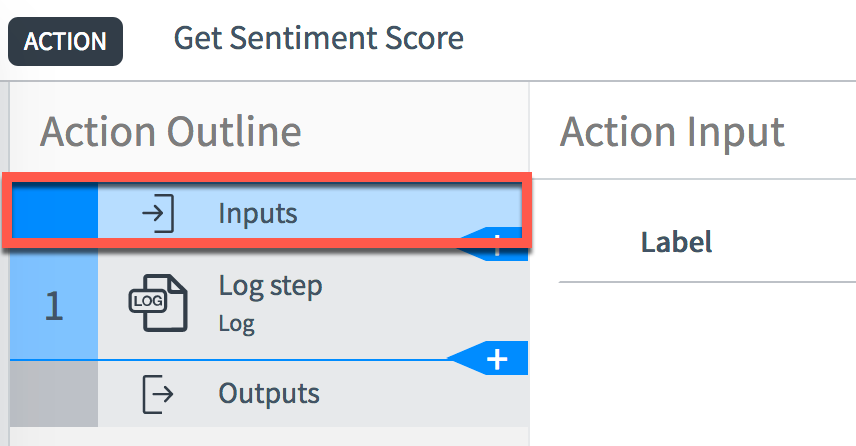
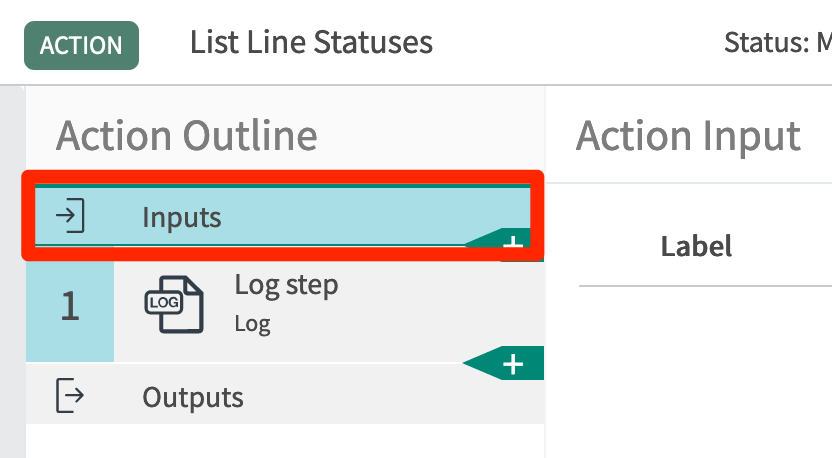
Finished the inputs section

diff --git a/guidebook.md b/guidebook.md
@@ -161,28 +161,30 @@ Now it’s time to add your action to the test flow.
 
 # Define Action Inputs
 
-Action Inputs allow you (and users of Flow Designer) to pass data into your actions. You can think of inputs as method parameters. This section will walk you through the process of creating Action Inputs for the **Get Sentiment Score** action.
+Action Inputs allow you (and users of Flow Designer) to pass data into your actions. You can think of inputs as method parameters. This section will walk you through the process of creating Action Inputs for the **List Line Statuses** action.
 
 ## Input Naming Considerations
 
 Action inputs should always have human-friendly names.
 
 **GOOD**: First name
+
 **BAD**: first\_name
 
 **GOOD**: Table Name
+
 **BAD**: tableName
 
 ## Add the Input
 
 1. Click the **Inputs** section at the top of the **Action Outline**.
-    ![Alt Text](images/034_select_inputs.png)
+    ![Click the Input Header](images/034_select_inputs.png)
 2. Click the **Create Input** button.
-    ![Alt Text](images/035_create_input_button.png)
-3. Click the “variable” label and change the value to “Text”. Turn the **Mandatory** toggle on.
+    ![Create Input](images/035_create_input_button.png)
+3. Click the “variable” label and change the value to “Modes”. Leave the type as **String**. Turn the **Mandatory** toggle on.
     ![Alt Text](images/036_input_label.png)
-4. Note that there is now a “Text” pill in the **Input Variables** section of the Data pane.
-    ![Alt Text](images/037_input_in_data_pane.png)
+4. Note that there is now a “Modes” pill in the **Input Variables** section of the Data pane.
+    ![Modes Data Pill is now on screen](images/037_input_in_data_pane.png)
 5. **Save** the Action.
 
 ## Change the Log step to use the input
@@ -190,13 +192,15 @@ Action inputs should always have human-friendly names.
 Now that the action has an input, you will change the Log step to use the value from this input.
 
 1. Open the step named **Log step**.
-2. Add a space after the existing log message, and then *drag* the **Text** input to the end of the **Log Message** input.
-    ![Alt Text](images/038_build_log_message.png)
+2. Add a space after the existing log message, and then *drag* the **Modes** input to the end of the **Log Message** input.
+    ![Building Log Message with the Data Pill](images/038_build_log_message.png)
 3. **Save** the action.
-4. Open the **Test Flow** flow you created earlier.
-5. Expand the **Get Sentiment** action and add a value to the new Text input.
-    ![Alt Text](images/039_set_get_sentiment_inputs.png)
-6. Test the flow again using the steps described earlier, and you will now see the “Text” value in the log message.
+4. Click the **Test** button at the top of the Designer page.
+ ![The Test Button for the Action](images/038a_test_button.png)
+5. Fill in a value to the **Modes** field and click **Run Test**.
+    ![Add Input to the Test](images/038b_test_action_form.png)
+6. Follow the Execution Results link as before. Examine the results of the individual steps and verify that you see your input correctly logged.
+    ![Results of the Test](images/039_test_results.png)
 
 # The REST Step
 
@@ -205,11 +209,11 @@ In this exercise, we will use the REST step. The REST step is exclusive to Integ
 ## Add a REST Step to the Action
 
 1. Click the + button underneath the Log step you added earlier.
-    ![Alt Text](images/040_add_rest_step.png)
+    ![Add the REST Step](images/040_add_rest_step.png)
 2. Click the REST step in the **Integrations** section of the dialog.
-    ![Alt Text](images/041_select_rest_step.png)
+    ![Select the REST Step](images/041_select_rest_step.png)
 3. You will be presented with the REST step UI.
-    ![Alt Text](images/042_rest_step_ui.png)
+    ![Define the REST Step](images/042_rest_step_ui.png)
 
 ### Define Connection Information
 
@@ -223,10 +227,12 @@ Whenever possible, you should use a Connection Alias when designing your step. T
 1. Quick prototyping/testing.
 2. When connection info is dynamic and will be passed into the action as an input or otherwise dynamically determined (e.g. the REST step will connect to an address defined in a Configuration Item record passed into the flow).
 
-In this lab, we will start with an inline connection, and convert the action to use a Connection Alias later.
+**Note**: Although the London Transport API needs no login, that is a rare case. In practice, almost every integration will require a Connection Alias.
+
+In this exercise, we will start with an inline connection, and convert the action to use a Connection Alias later.
 
 1. Change the **Connection** choice to “Define Connection Inline”.
-. Set the **Base URL** to `https://westcentralus.api.cognitive.microsoft.com`
+. Set the **Base URL** to `https://api.tfl.gov.uk`
 1. Set the **Resource Path** to `/text/analytics/v2.0/sentiment`
 1. Make sure there are no leading/trailing spaces in the Base URL an Resource Path fields.
 1. Set the **HTTP Method** to “POST”.
@@ -521,7 +527,6 @@ Now that the REST Step and XML Parser are configured you will finalize this acti
 
 Congratulations! You have created a full integration via OpenAPI and created your anat Action that integrates to it.
   
-
 # Challenge Exercise
 
 If you have completed the other exercises early and wish to continue learning, consider implementing a solution to the following use case building on the work you have done thus far.
